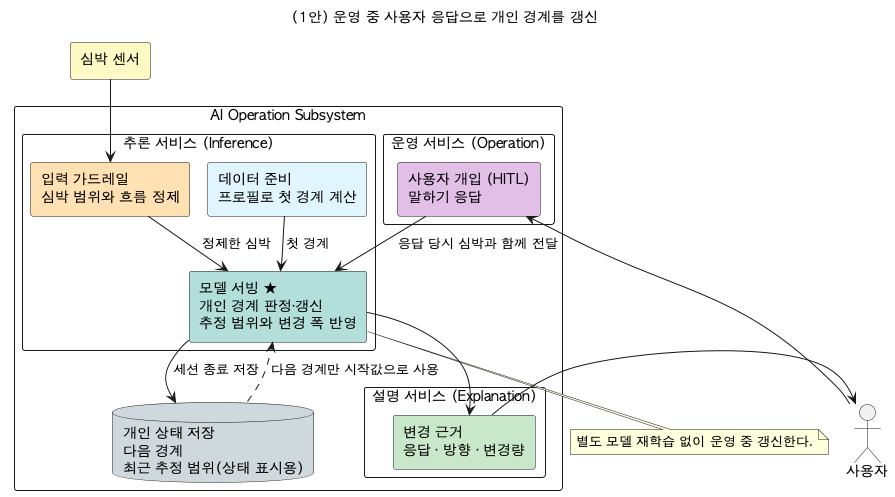
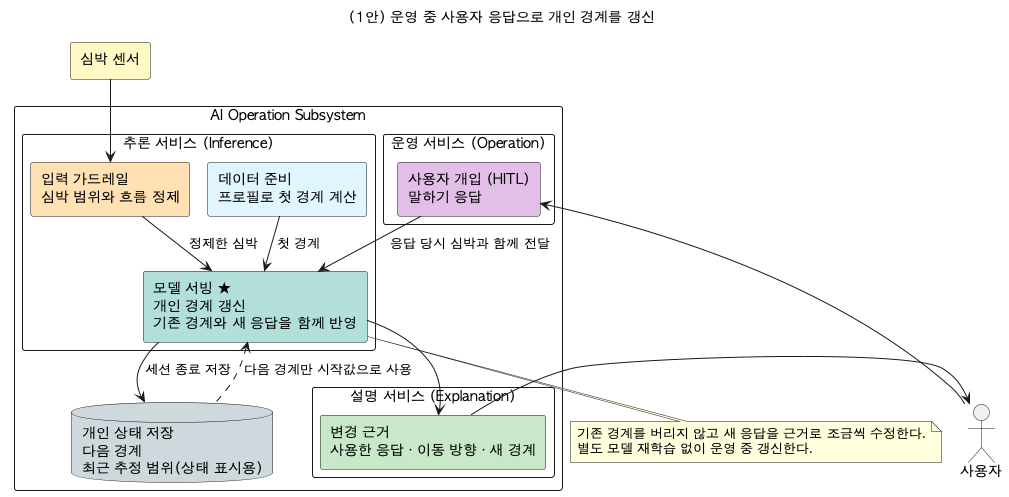
docs: clarify DP1 adaptation flows

diff --git a/docs/02-dp1.html b/docs/02-dp1.html
@@ -246,17 +246,17 @@
       <tr>
         <th class="rowh">한 줄<br>소개</th>
         <td>말하기 테스트 응답이 들어올 때마다 개인 경계를 조금씩 조정하는 구조</td>
-        <td>여러 사용자의 기록으로 공통 관계를 학습하고, 각 사용자의 프로필과 누적 기록으로 개인 경계를 보정하는 구조</td>
+        <td>여러 사용자의 운동 기록과 말하기 테스트 응답을 학습하고, 각 사용자의 프로필과 누적 기록으로 개인 경계를 보정하는 구조</td>
       </tr>
       <tr>
         <th class="rowh">구조</th>
         <td>
-          <div class="fig-frame"><img src="img/dp-03-adaptability-adopted-simple.png?v=4d90b76e" data-img="dp1-adopted" alt="1안 — AI 운영 서브시스템에서 사용자 응답으로 개인 경계를 갱신하는 구조"></div>
-          <p class="note" style="margin-top:8px">추론·운영·설명 서비스가 하나의 운영 경로에서 개인화에 참여한다. 프로필로 계산한 초기값에서 시작해 말하기 테스트 응답이 들어올 때마다 개인 경계를 조정하고, 한 세션에서 바뀌는 폭은 최대 10bpm으로 제한한다. 조정한 경계는 다음 러닝의 시작값으로 저장하며, 추정 범위는 개인화 진행 상태를 설명하기 위해 기록한다. 이 과정에는 별도의 모델 재학습이 필요하지 않다.</p>
+          <div class="fig-frame"><img src="img/dp-03-adaptability-adopted-simple.png?v=a1fbc508" data-img="dp1-adopted" alt="1안 — AI 운영 서브시스템에서 사용자 응답으로 개인 경계를 갱신하는 구조"></div>
+          <p class="note" style="margin-top:8px"><strong>첫 경계.</strong> 프로필로 개인 경계의 초기값을 추정한다. <strong>러닝 중 갱신.</strong> 사용자가 말하기 테스트에 답하면, 응답 당시의 심박을 새로운 근거로 받아 기존 경계를 조금씩 수정한다. 한 번의 응답으로 이전 값을 완전히 바꾸지 않고 같은 방향의 응답이 쌓일수록 그 근거를 더 반영한다. <strong>저장과 설명.</strong> 수정한 경계는 다음 러닝의 시작값으로 저장하고, 어떤 응답 때문에 어느 방향으로 달라졌는지도 함께 기록한다. 이처럼 기존 추정과 새 근거를 함께 반영하는 방식이 베이지안 갱신이며, 별도의 모델 재학습은 필요하지 않다.</p>
         </td>
         <td>
-          <div class="fig-frame"><img src="img/dp-03-adaptability-counter-simple.png?v=ab785cc9" data-img="dp1-counter" alt="2안 — AI 개발 서브시스템의 재학습과 배포로 개인화를 반영하는 구조"></div>
-          <p class="note" style="margin-top:8px">Data Lake에는 동의받은 여러 사용자의 기록을 사용자별로 구분해 저장한다. 먼저 전체 기록에서 프로필과 운동 기록 사이의 공통 관계를 학습하고, 추론할 때는 현재 사용자의 프로필과 누적된 심박·페이스·경사·말하기 응답을 함께 입력해 개인 Zone 2 상한 또는 보정값을 산출한다. 새 응답은 다음 데이터셋에 포함되며, 재학습·검증·배포가 끝난 뒤 해당 사용자의 이후 러닝에 반영된다.</p>
+          <div class="fig-frame"><img src="img/dp-03-adaptability-counter-simple.png?v=d24dc626" data-img="dp1-counter" alt="2안 — 말하기 테스트 응답을 수집해 모델 재학습과 배포로 개인화를 반영하는 구조"></div>
+          <p class="note" style="margin-top:8px"><strong>응답 수집.</strong> 2안에서도 사용자는 러닝 중 말하기 테스트에 답한다. 다만 현재 경계를 바로 바꾸지 않고, 응답 당시의 심박과 세션 기록을 동의받아 서버의 Data Lake에 모은다. <strong>공통·개인화 학습.</strong> 여러 사용자의 기록에서 프로필과 운동 반응의 공통 관계를 학습하고, 현재 사용자의 프로필과 누적 기록을 함께 입력해 개인 Zone 2 상한 또는 보정값을 산출한다. <strong>반영 시점.</strong> 새 응답은 다음 학습 데이터에 포함되며, 재학습·검증·배포가 끝난 뒤 이후 러닝부터 개인 경계에 반영된다.</p>
         </td>
       </tr>
       <tr>

diff --git a/docs/full-report.html b/docs/full-report.html
@@ -406,17 +406,17 @@
       <tr>
         <th class="rowh">한 줄<br>소개</th>
         <td>말하기 테스트 응답이 들어올 때마다 개인 경계를 조금씩 조정하는 구조</td>
-        <td>여러 사용자의 기록으로 공통 관계를 학습하고, 각 사용자의 프로필과 누적 기록으로 개인 경계를 보정하는 구조</td>
+        <td>여러 사용자의 운동 기록과 말하기 테스트 응답을 학습하고, 각 사용자의 프로필과 누적 기록으로 개인 경계를 보정하는 구조</td>
       </tr>
       <tr>
         <th class="rowh">구조</th>
         <td>
-          <div class="fig-frame"><img src="img/dp-03-adaptability-adopted-simple.png?v=4d90b76e" data-img="dp1-adopted" alt="1안 — AI 운영 서브시스템에서 사용자 응답으로 개인 경계를 갱신하는 구조"></div>
-          <p class="note" style="margin-top:8px">추론·운영·설명 서비스가 하나의 운영 경로에서 개인화에 참여한다. 프로필로 계산한 초기값에서 시작해 말하기 테스트 응답이 들어올 때마다 개인 경계를 조정하고, 한 세션에서 바뀌는 폭은 최대 10bpm으로 제한한다. 조정한 경계는 다음 러닝의 시작값으로 저장하며, 추정 범위는 개인화 진행 상태를 설명하기 위해 기록한다. 이 과정에는 별도의 모델 재학습이 필요하지 않다.</p>
+          <div class="fig-frame"><img src="img/dp-03-adaptability-adopted-simple.png?v=a1fbc508" data-img="dp1-adopted" alt="1안 — AI 운영 서브시스템에서 사용자 응답으로 개인 경계를 갱신하는 구조"></div>
+          <p class="note" style="margin-top:8px"><strong>첫 경계.</strong> 프로필로 개인 경계의 초기값을 추정한다. <strong>러닝 중 갱신.</strong> 사용자가 말하기 테스트에 답하면, 응답 당시의 심박을 새로운 근거로 받아 기존 경계를 조금씩 수정한다. 한 번의 응답으로 이전 값을 완전히 바꾸지 않고 같은 방향의 응답이 쌓일수록 그 근거를 더 반영한다. <strong>저장과 설명.</strong> 수정한 경계는 다음 러닝의 시작값으로 저장하고, 어떤 응답 때문에 어느 방향으로 달라졌는지도 함께 기록한다. 이처럼 기존 추정과 새 근거를 함께 반영하는 방식이 베이지안 갱신이며, 별도의 모델 재학습은 필요하지 않다.</p>
         </td>
         <td>
-          <div class="fig-frame"><img src="img/dp-03-adaptability-counter-simple.png?v=ab785cc9" data-img="dp1-counter" alt="2안 — AI 개발 서브시스템의 재학습과 배포로 개인화를 반영하는 구조"></div>
-          <p class="note" style="margin-top:8px">Data Lake에는 동의받은 여러 사용자의 기록을 사용자별로 구분해 저장한다. 먼저 전체 기록에서 프로필과 운동 기록 사이의 공통 관계를 학습하고, 추론할 때는 현재 사용자의 프로필과 누적된 심박·페이스·경사·말하기 응답을 함께 입력해 개인 Zone 2 상한 또는 보정값을 산출한다. 새 응답은 다음 데이터셋에 포함되며, 재학습·검증·배포가 끝난 뒤 해당 사용자의 이후 러닝에 반영된다.</p>
+          <div class="fig-frame"><img src="img/dp-03-adaptability-counter-simple.png?v=d24dc626" data-img="dp1-counter" alt="2안 — 말하기 테스트 응답을 수집해 모델 재학습과 배포로 개인화를 반영하는 구조"></div>
+          <p class="note" style="margin-top:8px"><strong>응답 수집.</strong> 2안에서도 사용자는 러닝 중 말하기 테스트에 답한다. 다만 현재 경계를 바로 바꾸지 않고, 응답 당시의 심박과 세션 기록을 동의받아 서버의 Data Lake에 모은다. <strong>공통·개인화 학습.</strong> 여러 사용자의 기록에서 프로필과 운동 반응의 공통 관계를 학습하고, 현재 사용자의 프로필과 누적 기록을 함께 입력해 개인 Zone 2 상한 또는 보정값을 산출한다. <strong>반영 시점.</strong> 새 응답은 다음 학습 데이터에 포함되며, 재학습·검증·배포가 끝난 뒤 이후 러닝부터 개인 경계에 반영된다.</p>
         </td>
       </tr>
       <tr>

diff --git a/docs/index.html b/docs/index.html
@@ -406,17 +406,17 @@
       <tr>
         <th class="rowh">한 줄<br>소개</th>
         <td>말하기 테스트 응답이 들어올 때마다 개인 경계를 조금씩 조정하는 구조</td>
-        <td>여러 사용자의 기록으로 공통 관계를 학습하고, 각 사용자의 프로필과 누적 기록으로 개인 경계를 보정하는 구조</td>
+        <td>여러 사용자의 운동 기록과 말하기 테스트 응답을 학습하고, 각 사용자의 프로필과 누적 기록으로 개인 경계를 보정하는 구조</td>
       </tr>
       <tr>
         <th class="rowh">구조</th>
         <td>
-          <div class="fig-frame"><img src="img/dp-03-adaptability-adopted-simple.png?v=4d90b76e" data-img="dp1-adopted" alt="1안 — AI 운영 서브시스템에서 사용자 응답으로 개인 경계를 갱신하는 구조"></div>
-          <p class="note" style="margin-top:8px">추론·운영·설명 서비스가 하나의 운영 경로에서 개인화에 참여한다. 프로필로 계산한 초기값에서 시작해 말하기 테스트 응답이 들어올 때마다 개인 경계를 조정하고, 한 세션에서 바뀌는 폭은 최대 10bpm으로 제한한다. 조정한 경계는 다음 러닝의 시작값으로 저장하며, 추정 범위는 개인화 진행 상태를 설명하기 위해 기록한다. 이 과정에는 별도의 모델 재학습이 필요하지 않다.</p>
+          <div class="fig-frame"><img src="img/dp-03-adaptability-adopted-simple.png?v=a1fbc508" data-img="dp1-adopted" alt="1안 — AI 운영 서브시스템에서 사용자 응답으로 개인 경계를 갱신하는 구조"></div>
+          <p class="note" style="margin-top:8px"><strong>첫 경계.</strong> 프로필로 개인 경계의 초기값을 추정한다. <strong>러닝 중 갱신.</strong> 사용자가 말하기 테스트에 답하면, 응답 당시의 심박을 새로운 근거로 받아 기존 경계를 조금씩 수정한다. 한 번의 응답으로 이전 값을 완전히 바꾸지 않고 같은 방향의 응답이 쌓일수록 그 근거를 더 반영한다. <strong>저장과 설명.</strong> 수정한 경계는 다음 러닝의 시작값으로 저장하고, 어떤 응답 때문에 어느 방향으로 달라졌는지도 함께 기록한다. 이처럼 기존 추정과 새 근거를 함께 반영하는 방식이 베이지안 갱신이며, 별도의 모델 재학습은 필요하지 않다.</p>
         </td>
         <td>
-          <div class="fig-frame"><img src="img/dp-03-adaptability-counter-simple.png?v=ab785cc9" data-img="dp1-counter" alt="2안 — AI 개발 서브시스템의 재학습과 배포로 개인화를 반영하는 구조"></div>
-          <p class="note" style="margin-top:8px">Data Lake에는 동의받은 여러 사용자의 기록을 사용자별로 구분해 저장한다. 먼저 전체 기록에서 프로필과 운동 기록 사이의 공통 관계를 학습하고, 추론할 때는 현재 사용자의 프로필과 누적된 심박·페이스·경사·말하기 응답을 함께 입력해 개인 Zone 2 상한 또는 보정값을 산출한다. 새 응답은 다음 데이터셋에 포함되며, 재학습·검증·배포가 끝난 뒤 해당 사용자의 이후 러닝에 반영된다.</p>
+          <div class="fig-frame"><img src="img/dp-03-adaptability-counter-simple.png?v=d24dc626" data-img="dp1-counter" alt="2안 — 말하기 테스트 응답을 수집해 모델 재학습과 배포로 개인화를 반영하는 구조"></div>
+          <p class="note" style="margin-top:8px"><strong>응답 수집.</strong> 2안에서도 사용자는 러닝 중 말하기 테스트에 답한다. 다만 현재 경계를 바로 바꾸지 않고, 응답 당시의 심박과 세션 기록을 동의받아 서버의 Data Lake에 모은다. <strong>공통·개인화 학습.</strong> 여러 사용자의 기록에서 프로필과 운동 반응의 공통 관계를 학습하고, 현재 사용자의 프로필과 누적 기록을 함께 입력해 개인 Zone 2 상한 또는 보정값을 산출한다. <strong>반영 시점.</strong> 새 응답은 다음 학습 데이터에 포함되며, 재학습·검증·배포가 끝난 뒤 이후 러닝부터 개인 경계에 반영된다.</p>
         </td>
       </tr>
       <tr>

diff --git a/docs/src/10-full-report-parts.html b/docs/src/10-full-report-parts.html
@@ -192,17 +192,17 @@
       <tr>
         <th class="rowh">한 줄<br>소개</th>
         <td>말하기 테스트 응답이 들어올 때마다 개인 경계를 조금씩 조정하는 구조</td>
-        <td>여러 사용자의 기록으로 공통 관계를 학습하고, 각 사용자의 프로필과 누적 기록으로 개인 경계를 보정하는 구조</td>
+        <td>여러 사용자의 운동 기록과 말하기 테스트 응답을 학습하고, 각 사용자의 프로필과 누적 기록으로 개인 경계를 보정하는 구조</td>
       </tr>
       <tr>
         <th class="rowh">구조</th>
         <td>
           <div class="fig-frame"><img data-img="dp1-adopted" alt="1안 — AI 운영 서브시스템에서 사용자 응답으로 개인 경계를 갱신하는 구조"></div>
-          <p class="note" style="margin-top:8px">추론·운영·설명 서비스가 하나의 운영 경로에서 개인화에 참여한다. 프로필로 계산한 초기값에서 시작해 말하기 테스트 응답이 들어올 때마다 개인 경계를 조정하고, 한 세션에서 바뀌는 폭은 최대 10bpm으로 제한한다. 조정한 경계는 다음 러닝의 시작값으로 저장하며, 추정 범위는 개인화 진행 상태를 설명하기 위해 기록한다. 이 과정에는 별도의 모델 재학습이 필요하지 않다.</p>
+          <p class="note" style="margin-top:8px"><strong>첫 경계.</strong> 프로필로 개인 경계의 초기값을 추정한다. <strong>러닝 중 갱신.</strong> 사용자가 말하기 테스트에 답하면, 응답 당시의 심박을 새로운 근거로 받아 기존 경계를 조금씩 수정한다. 한 번의 응답으로 이전 값을 완전히 바꾸지 않고 같은 방향의 응답이 쌓일수록 그 근거를 더 반영한다. <strong>저장과 설명.</strong> 수정한 경계는 다음 러닝의 시작값으로 저장하고, 어떤 응답 때문에 어느 방향으로 달라졌는지도 함께 기록한다. 이처럼 기존 추정과 새 근거를 함께 반영하는 방식이 베이지안 갱신이며, 별도의 모델 재학습은 필요하지 않다.</p>
         </td>
         <td>
-          <div class="fig-frame"><img data-img="dp1-counter" alt="2안 — AI 개발 서브시스템의 재학습과 배포로 개인화를 반영하는 구조"></div>
-          <p class="note" style="margin-top:8px">Data Lake에는 동의받은 여러 사용자의 기록을 사용자별로 구분해 저장한다. 먼저 전체 기록에서 프로필과 운동 기록 사이의 공통 관계를 학습하고, 추론할 때는 현재 사용자의 프로필과 누적된 심박·페이스·경사·말하기 응답을 함께 입력해 개인 Zone 2 상한 또는 보정값을 산출한다. 새 응답은 다음 데이터셋에 포함되며, 재학습·검증·배포가 끝난 뒤 해당 사용자의 이후 러닝에 반영된다.</p>
+          <div class="fig-frame"><img data-img="dp1-counter" alt="2안 — 말하기 테스트 응답을 수집해 모델 재학습과 배포로 개인화를 반영하는 구조"></div>
+          <p class="note" style="margin-top:8px"><strong>응답 수집.</strong> 2안에서도 사용자는 러닝 중 말하기 테스트에 답한다. 다만 현재 경계를 바로 바꾸지 않고, 응답 당시의 심박과 세션 기록을 동의받아 서버의 Data Lake에 모은다. <strong>공통·개인화 학습.</strong> 여러 사용자의 기록에서 프로필과 운동 반응의 공통 관계를 학습하고, 현재 사용자의 프로필과 누적 기록을 함께 입력해 개인 Zone 2 상한 또는 보정값을 산출한다. <strong>반영 시점.</strong> 새 응답은 다음 학습 데이터에 포함되며, 재학습·검증·배포가 끝난 뒤 이후 러닝부터 개인 경계에 반영된다.</p>
         </td>
       </tr>
       <tr>

diff --git a/docs/src/02-dp1.html b/docs/src/02-dp1.html
@@ -50,17 +50,17 @@
       <tr>
         <th class="rowh">한 줄<br>소개</th>
         <td>말하기 테스트 응답이 들어올 때마다 개인 경계를 조금씩 조정하는 구조</td>
-        <td>여러 사용자의 기록으로 공통 관계를 학습하고, 각 사용자의 프로필과 누적 기록으로 개인 경계를 보정하는 구조</td>
+        <td>여러 사용자의 운동 기록과 말하기 테스트 응답을 학습하고, 각 사용자의 프로필과 누적 기록으로 개인 경계를 보정하는 구조</td>
       </tr>
       <tr>
         <th class="rowh">구조</th>
         <td>
           <div class="fig-frame"><img data-img="dp1-adopted" alt="1안 — AI 운영 서브시스템에서 사용자 응답으로 개인 경계를 갱신하는 구조"></div>
-          <p class="note" style="margin-top:8px">추론·운영·설명 서비스가 하나의 운영 경로에서 개인화에 참여한다. 프로필로 계산한 초기값에서 시작해 말하기 테스트 응답이 들어올 때마다 개인 경계를 조정하고, 한 세션에서 바뀌는 폭은 최대 10bpm으로 제한한다. 조정한 경계는 다음 러닝의 시작값으로 저장하며, 추정 범위는 개인화 진행 상태를 설명하기 위해 기록한다. 이 과정에는 별도의 모델 재학습이 필요하지 않다.</p>
+          <p class="note" style="margin-top:8px"><strong>첫 경계.</strong> 프로필로 개인 경계의 초기값을 추정한다. <strong>러닝 중 갱신.</strong> 사용자가 말하기 테스트에 답하면, 응답 당시의 심박을 새로운 근거로 받아 기존 경계를 조금씩 수정한다. 한 번의 응답으로 이전 값을 완전히 바꾸지 않고 같은 방향의 응답이 쌓일수록 그 근거를 더 반영한다. <strong>저장과 설명.</strong> 수정한 경계는 다음 러닝의 시작값으로 저장하고, 어떤 응답 때문에 어느 방향으로 달라졌는지도 함께 기록한다. 이처럼 기존 추정과 새 근거를 함께 반영하는 방식이 베이지안 갱신이며, 별도의 모델 재학습은 필요하지 않다.</p>
         </td>
         <td>
-          <div class="fig-frame"><img data-img="dp1-counter" alt="2안 — AI 개발 서브시스템의 재학습과 배포로 개인화를 반영하는 구조"></div>
-          <p class="note" style="margin-top:8px">Data Lake에는 동의받은 여러 사용자의 기록을 사용자별로 구분해 저장한다. 먼저 전체 기록에서 프로필과 운동 기록 사이의 공통 관계를 학습하고, 추론할 때는 현재 사용자의 프로필과 누적된 심박·페이스·경사·말하기 응답을 함께 입력해 개인 Zone 2 상한 또는 보정값을 산출한다. 새 응답은 다음 데이터셋에 포함되며, 재학습·검증·배포가 끝난 뒤 해당 사용자의 이후 러닝에 반영된다.</p>
+          <div class="fig-frame"><img data-img="dp1-counter" alt="2안 — 말하기 테스트 응답을 수집해 모델 재학습과 배포로 개인화를 반영하는 구조"></div>
+          <p class="note" style="margin-top:8px"><strong>응답 수집.</strong> 2안에서도 사용자는 러닝 중 말하기 테스트에 답한다. 다만 현재 경계를 바로 바꾸지 않고, 응답 당시의 심박과 세션 기록을 동의받아 서버의 Data Lake에 모은다. <strong>공통·개인화 학습.</strong> 여러 사용자의 기록에서 프로필과 운동 반응의 공통 관계를 학습하고, 현재 사용자의 프로필과 누적 기록을 함께 입력해 개인 Zone 2 상한 또는 보정값을 산출한다. <strong>반영 시점.</strong> 새 응답은 다음 학습 데이터에 포함되며, 재학습·검증·배포가 끝난 뒤 이후 러닝부터 개인 경계에 반영된다.</p>
         </td>
       </tr>
       <tr>
